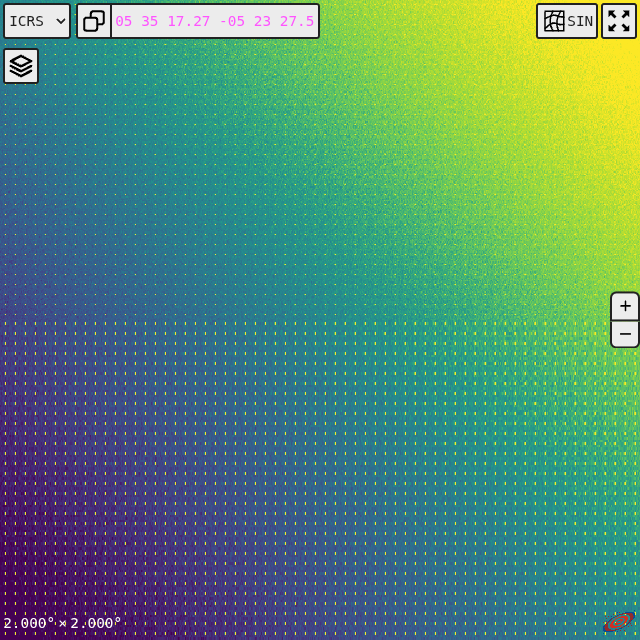
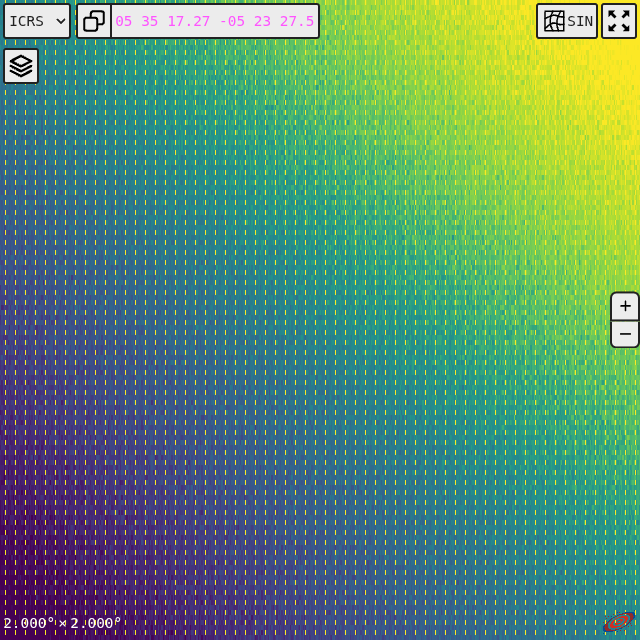
feat(fits): choose the refinement level by what it costs to fetch
A tile costs one range request per row it samples, so the price of a
viewport climbs sharply as the level gets finer. Asking for the level the
zoom implies and then never getting it leaves the view stuck on the
overview — worse than having asked for something coarser and actually
receiving it.

So the level is now the finest one whose estimated request count for the
current view fits a budget, and tiles are requested nearest the middle of
the view first, since the in-flight limit means only some of them start
at once.

This does not fix the 4 GB case: a screenful of that image at full
resolution is still thousands of requests against six HTTP/1.1
connections, and it still shows its overview at high zoom. It makes the
choice principled rather than optimistic, and it leaves the 64 MB image
resolving to individual pixels as before.

diff --git a/src/core/src/renderable/image/streamed.rs b/src/core/src/renderable/image/streamed.rs
@@ -351,6 +351,64 @@ fn level_for(grid: &TileGrid, camera: &CameraViewPort, rect: (f64, f64, f64, f64
     grid.level_for_scale((x1 - x0) / screen_px)
 }
 
+/// Range requests a view is allowed to spend on one refinement level.
+///
+/// A tile costs one request per row it samples unless those rows are close
+/// enough together to coalesce, so on a wide image the cost of a viewport grows
+/// sharply as the level gets finer — on a 32768-wide image a screenful at full
+/// resolution is thousands of requests. Past a few hundred, against a browser
+/// holding six connections to an origin, nothing lands in a useful time and the
+/// view simply never improves.
+///
+/// So the level is chosen by what it costs to fetch, not only by what the zoom
+/// asks for. Falling back to a coarser level shows *something* sharper than the
+/// overview, which beats asking for perfection and rendering nothing.
+const MAX_REQUESTS_PER_VIEW: usize = 512;
+
+/// Requests the viewport would need at `level`.
+///
+/// Counts one representative tile's plan and multiplies by the tiles the view
+/// covers; every tile at a level has the same row count, so the estimate is
+/// exact except at the image's edges, where it is an over-estimate.
+fn requests_for_view(
+    reader: &Reader,
+    level: u32,
+    rect: (f64, f64, f64, f64),
+    budget: u64,
+) -> Option<usize> {
+    let grid = &reader.grid;
+    let patch = grid.step_at(level) * grid.tile_size as u64;
+
+    let (x0, y0, x1, y1) = rect;
+    let tiles_x = (x1.ceil() as u64).saturating_sub(1) / patch - (x0 as u64) / patch + 1;
+    let tiles_y = (y1.ceil() as u64).saturating_sub(1) / patch - (y0 as u64) / patch + 1;
+
+    let id = TileId::new(level, ((x0 as u64) / patch) as u32, ((y0 as u64) / patch) as u32);
+    let sampling = reader.sampling(id, budget)?;
+    let plan = al_fits::tile::plan_reads(reader.entry(), grid, &sampling);
+
+    Some(plan.requests().saturating_mul((tiles_x * tiles_y) as usize))
+}
+
+/// The finest level the view can actually afford to fetch.
+fn affordable_level(
+    reader: &Reader,
+    wanted: u32,
+    rect: (f64, f64, f64, f64),
+    budget: u64,
+) -> u32 {
+    let coarsest = reader.grid.level_count() - 1;
+
+    for level in wanted..=coarsest {
+        match requests_for_view(reader, level, rect, budget) {
+            Some(requests) if requests <= MAX_REQUESTS_PER_VIEW => return level,
+            _ => continue,
+        }
+    }
+
+    coarsest
+}
+
 impl Refine {
     pub fn new(gl: &WebGlContext, reader: Rc<Reader>, budget: u64) -> Result<Self, JsValue> {
         let (ready_send, ready_recv) = async_channel::unbounded();
@@ -495,7 +553,8 @@ impl Refine {
         };
 
         let grid = self.reader.grid.clone();
-        let level = level_for(&grid, camera, rect);
+        let wanted = level_for(&grid, camera, rect);
+        let level = affordable_level(&self.reader, wanted, rect, self.budget);
         let step = grid.step_at(level);
         let patch = step * grid.tile_size as u64;
 
@@ -530,7 +589,23 @@ impl Refine {
             redraw = true;
         }
 
-        for id in &patch_tiles {
+        // Nearest the middle of the view first: the in-flight limit means only
+        // some of these start now, and the centre is what the user is looking
+        // at.
+        let centre = (
+            (tx0 + tx1) as f64 / 2.0,
+            (ty0 + ty1) as f64 / 2.0,
+        );
+        let mut by_distance: Vec<TileId> = patch_tiles.clone();
+        by_distance.sort_by(|a, b| {
+            let d = |t: &TileId| {
+                let dx = t.x as f64 - centre.0;
+                let dy = t.y as f64 - centre.1;
+                dx * dx + dy * dy
+            };
+            d(a).total_cmp(&d(b))
+        });
+        for id in &by_distance {
             self.request(*id);
         }
         self.evict(&wanted);
